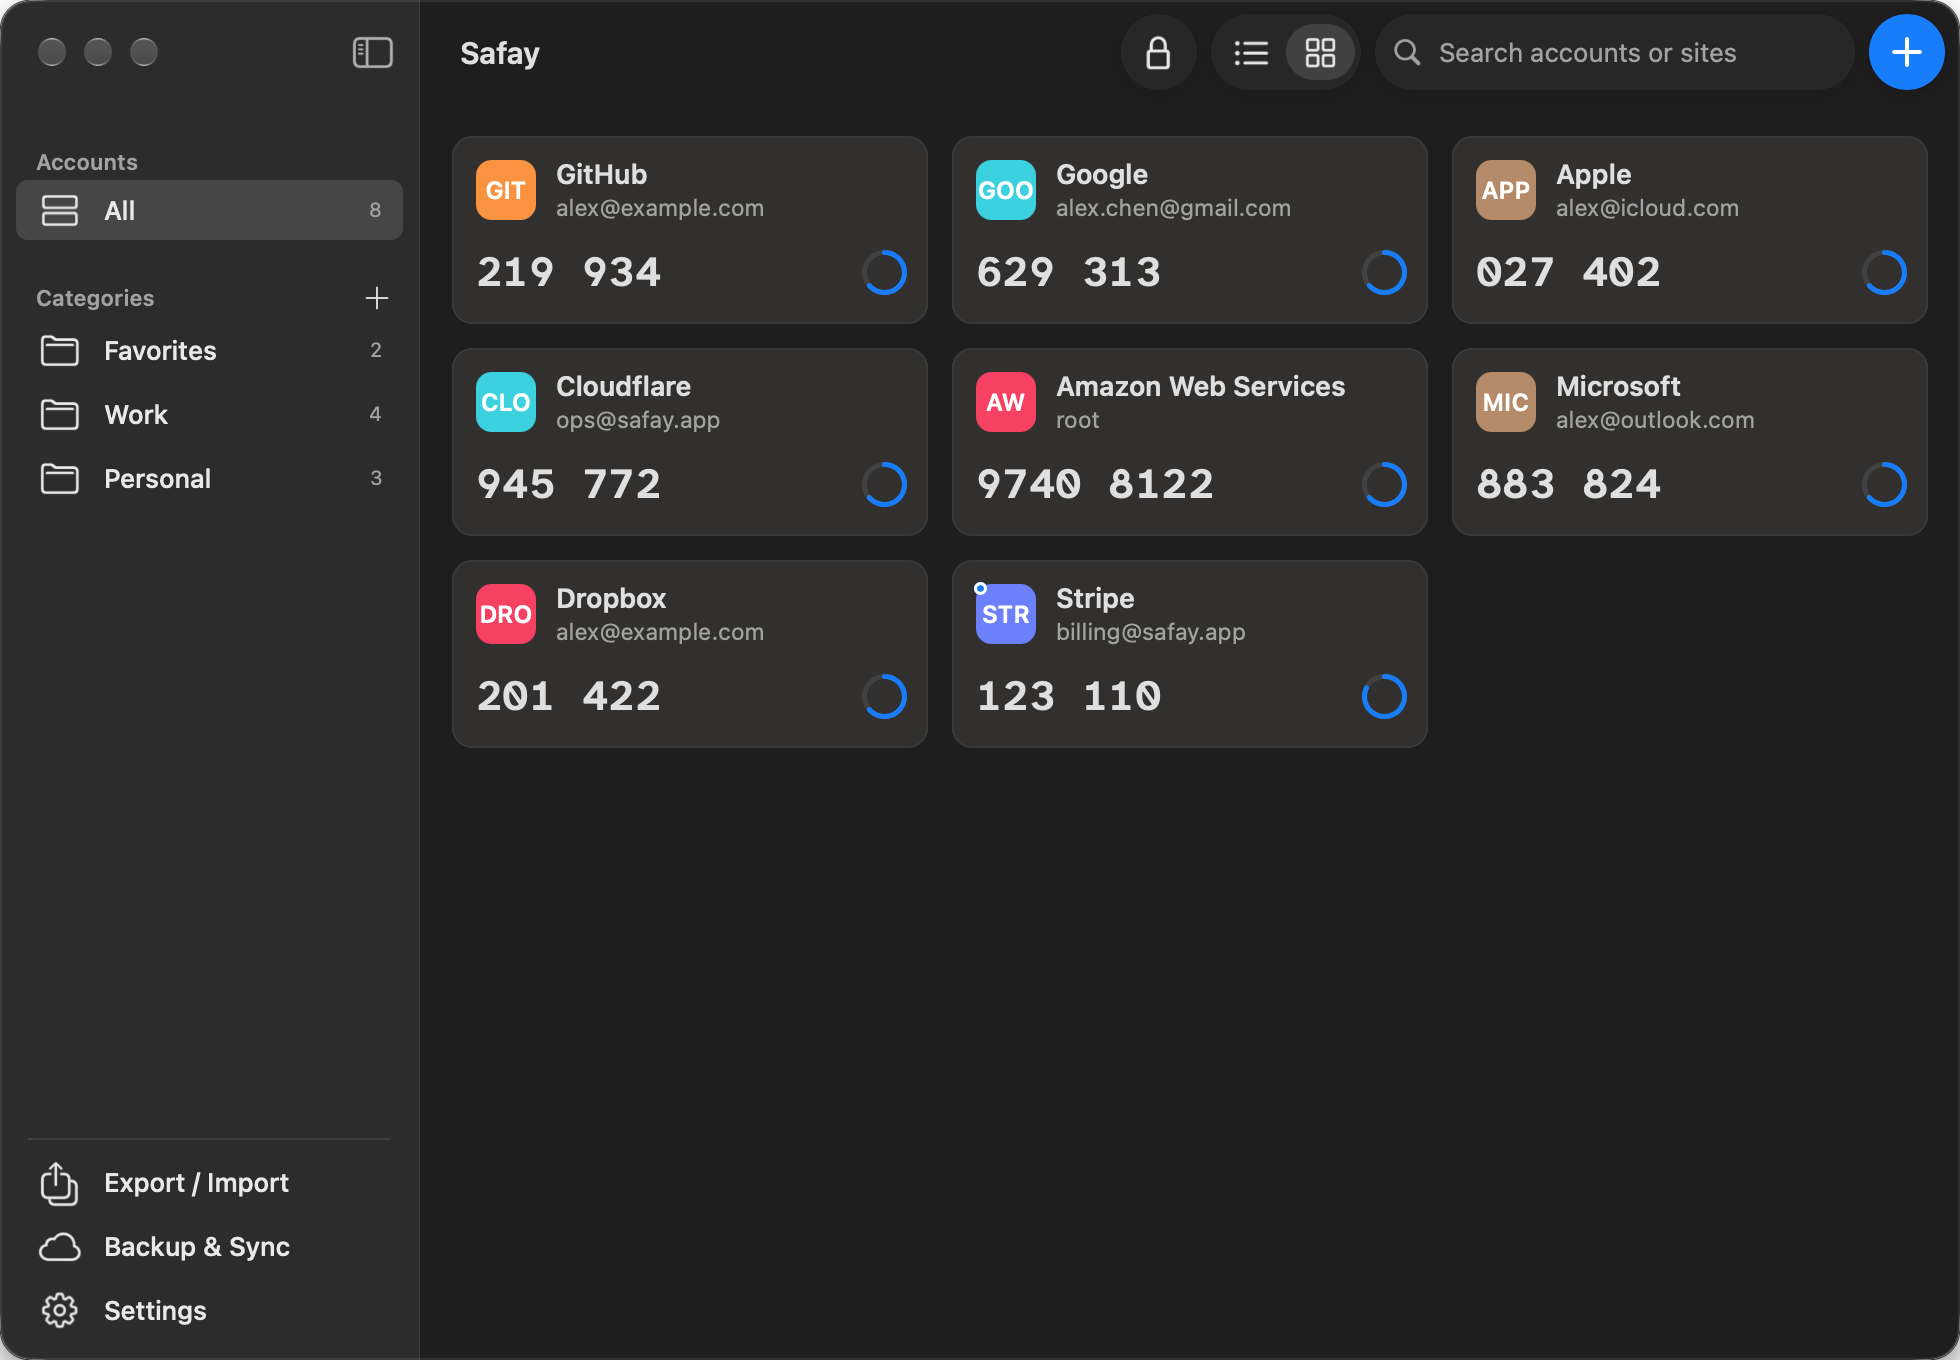
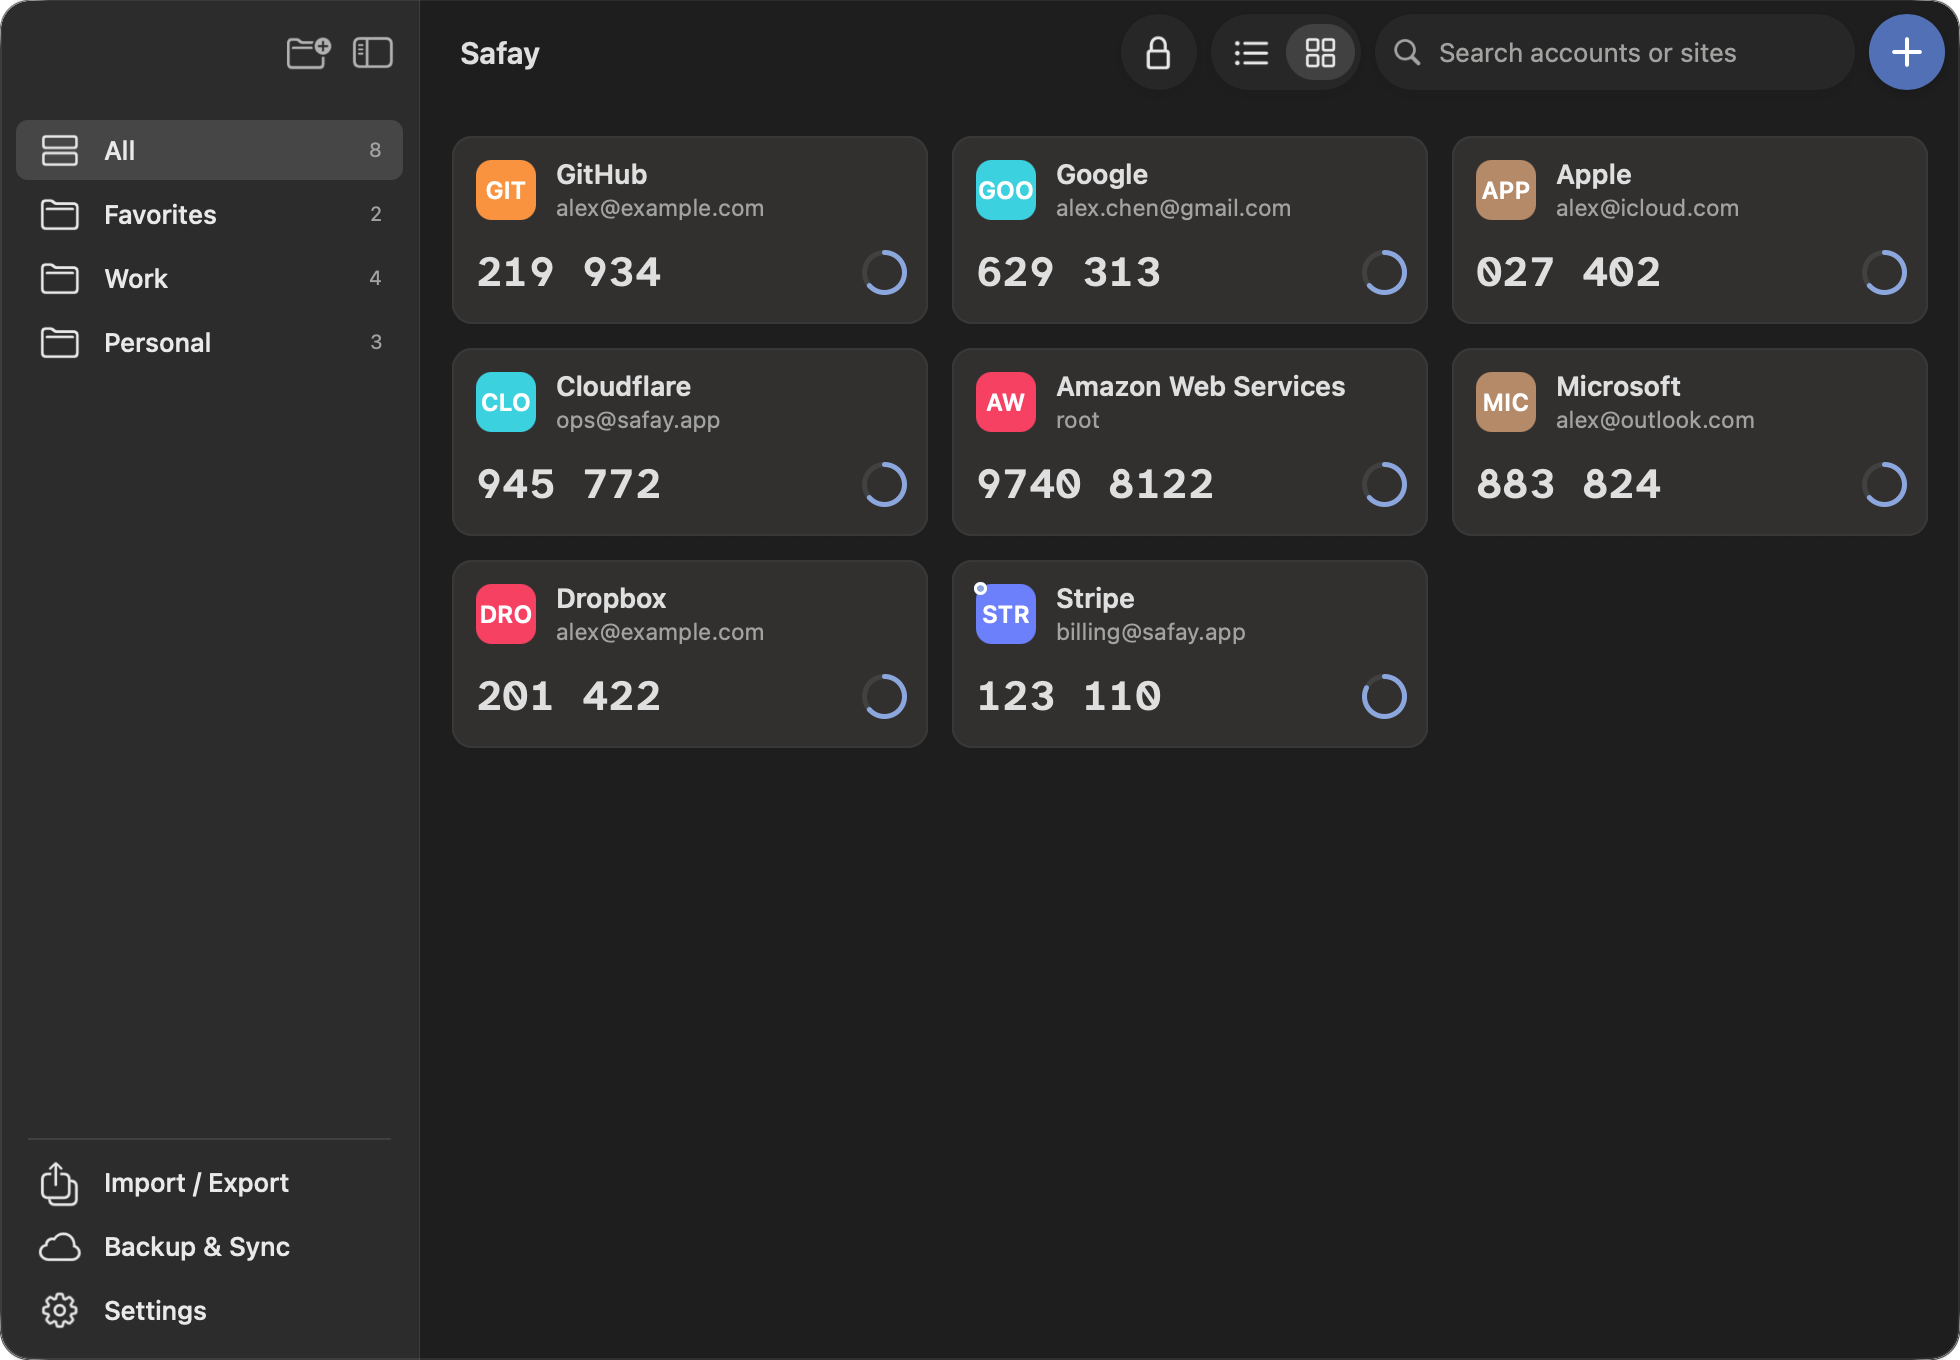
docs: refresh the README's screenshots and its download section
The README's pictures show the current interface: the indigo accent,
the merged sidebar and "Import / Export". scripts/readme_images.py
copies them from docs/screenshots into docs/img and gives each the
window's rounded corners at all four corners, with transparency outside
them, so no fill or shadow shows past the window on any page.

Downloads get their own section: a table of what each platform offers,
how to install the DMG, how updates arrive, and which release files the
updater uses. DEVELOPMENT.md describes the script and why screenshots
need an unlocked screen.

diff --git a/scripts/readme_images.py b/scripts/readme_images.py
@@ -1,0 +1,69 @@
+#!/usr/bin/env python3
+"""Copies the README's screenshots from docs/screenshots into docs/img, with clean window corners.
+
+The macOS captures (previews/screenshots.test.tsx) leave a faint shadow under the window's bottom corners, and where NSH
+draws the window in process, square top corners over an opaque fill. Each picture gets the window's own corner shape,
+read from its bottom left corner, at all four corners, with nothing but transparency outside it, so it sits on any page
+background.
+
+Needs Pillow (`python3 -m pip install Pillow`).
+"""
+
+import sys
+from pathlib import Path
+
+try:
+    from PIL import Image
+except ImportError:
+    sys.exit("readme_images.py needs Pillow: python3 -m pip install Pillow")
+
+ROOT = Path(__file__).resolve().parent.parent
+SOURCE = ROOT / "docs" / "screenshots"
+TARGET = ROOT / "docs" / "img"
+# What the README shows.
+NAMES = ["accounts-light", "accounts-dark", "detail", "backup-locations", "settings-general", "panel-light"]
+# Large enough for a macOS window's corner at 2x.
+CORNER = 96
+# Alpha at or below this is the shadow outside the window; at full opacity it is the window.
+SHADOW = 60
+
+
+def corner_mask(alpha: Image.Image) -> Image.Image:
+    """The window's coverage in its bottom left corner (CORNER × CORNER), from transparent to opaque."""
+    w, h = alpha.size
+    block = alpha.crop((0, h - CORNER, CORNER, h))
+    return block.point(lambda a: max(0, min(255, round((a - SHADOW) * 255 / (255 - SHADOW)))))
+
+
+def round_corners(image: Image.Image) -> Image.Image:
+    image = image.convert("RGBA")
+    w, h = image.size
+    alpha = image.getchannel("A")
+    bottom_left = corner_mask(alpha)
+    masks = {
+        (0, h - CORNER): bottom_left,
+        (w - CORNER, h - CORNER): bottom_left.transpose(Image.Transpose.FLIP_LEFT_RIGHT),
+        (0, 0): bottom_left.transpose(Image.Transpose.FLIP_TOP_BOTTOM),
+        (w - CORNER, 0): bottom_left.transpose(Image.Transpose.ROTATE_180),
+    }
+    for (x, y), mask in masks.items():
+        alpha.paste(mask, (x, y))
+    image.putalpha(alpha)
+    return image
+
+
+def main() -> int:
+    TARGET.mkdir(parents=True, exist_ok=True)
+    missing = [n for n in NAMES if not (SOURCE / f"{n}.png").exists()]
+    if missing:
+        print(f"missing in {SOURCE.relative_to(ROOT)}: {', '.join(missing)}; take the screenshots first", file=sys.stderr)
+        return 1
+    for name in NAMES:
+        with Image.open(SOURCE / f"{name}.png") as image:
+            round_corners(image).save(TARGET / f"{name}.png", optimize=True)
+        print(f"docs/img/{name}.png")
+    return 0
+
+
+if __name__ == "__main__":
+    sys.exit(main())

diff --git a/README.md b/README.md
@@ -6,13 +6,18 @@ shows the current codes, and backs the vault up to a location you choose — wit
 The interface is written in Rust with [NSH](https://github.com/longbridge/nsh), a native UI framework, so one code base
 renders native windows on macOS, Windows and Linux.
 
-> **Status: early development.** macOS (Apple silicon, macOS 14 or later) is the primary platform. Windows and Linux
-> build from the same code but have not yet been run end to end; see [Platforms](docs/PLATFORMS.md).
-
-**Download**: the signed and notarized DMG for macOS is on the
-[latest release](https://github.com/gicek/safay/releases/latest). Safay updates itself after you agree.
-
 ![Accounts](docs/img/accounts-light.png)
+
+## Download
+
+| Platform | Get it |
+|---|---|
+| **macOS** 14 or later, Apple silicon | `Safay-<version>.dmg` from the [latest release](https://github.com/gicek/safay/releases/latest): open it and drag Safay to Applications. Signed and notarized. |
+| **Windows**, **Linux** | Not published yet. They build from the same code but have not been run end to end; see [Platforms](docs/PLATFORMS.md) and [Getting started](#getting-started). |
+
+On its second launch Safay asks whether to check for updates once a day; each new version then opens in its update
+window, or downloads and installs on its own if you choose. The other files on each release — the zip, the `.tar.gz` update archive and `latest.json` — are for the
+updater and for scripts; you don't need them to install. Each release's notes are in [CHANGELOG.md](CHANGELOG.md).
 
 ## Features
 

diff --git a/docs/DEVELOPMENT.md b/docs/DEVELOPMENT.md
@@ -84,8 +84,12 @@ authentication and signed distribution are checked by hand.
 python3 scripts/nsh.py test previews/screenshots.test.tsx --target macos --foreground
 ```
 
-Check every image after a UI change, and copy the ones the README shows into `docs/img`. `--foreground` gives the
-window focus so selected rows and segments show their active colours.
+Check every image after a UI change. `--foreground` gives the window focus so selected rows and segments show their
+active colors. Run it with the screen unlocked: where the window server gives no picture, NSH draws the window in
+process, without its title bar buttons.
+
+`python3 scripts/readme_images.py` (needs Pillow) copies the pictures the README shows into `docs/img`, with the
+window's rounded corners at all four corners and transparency outside them.
 
 ## Packaging (macOS)
 
